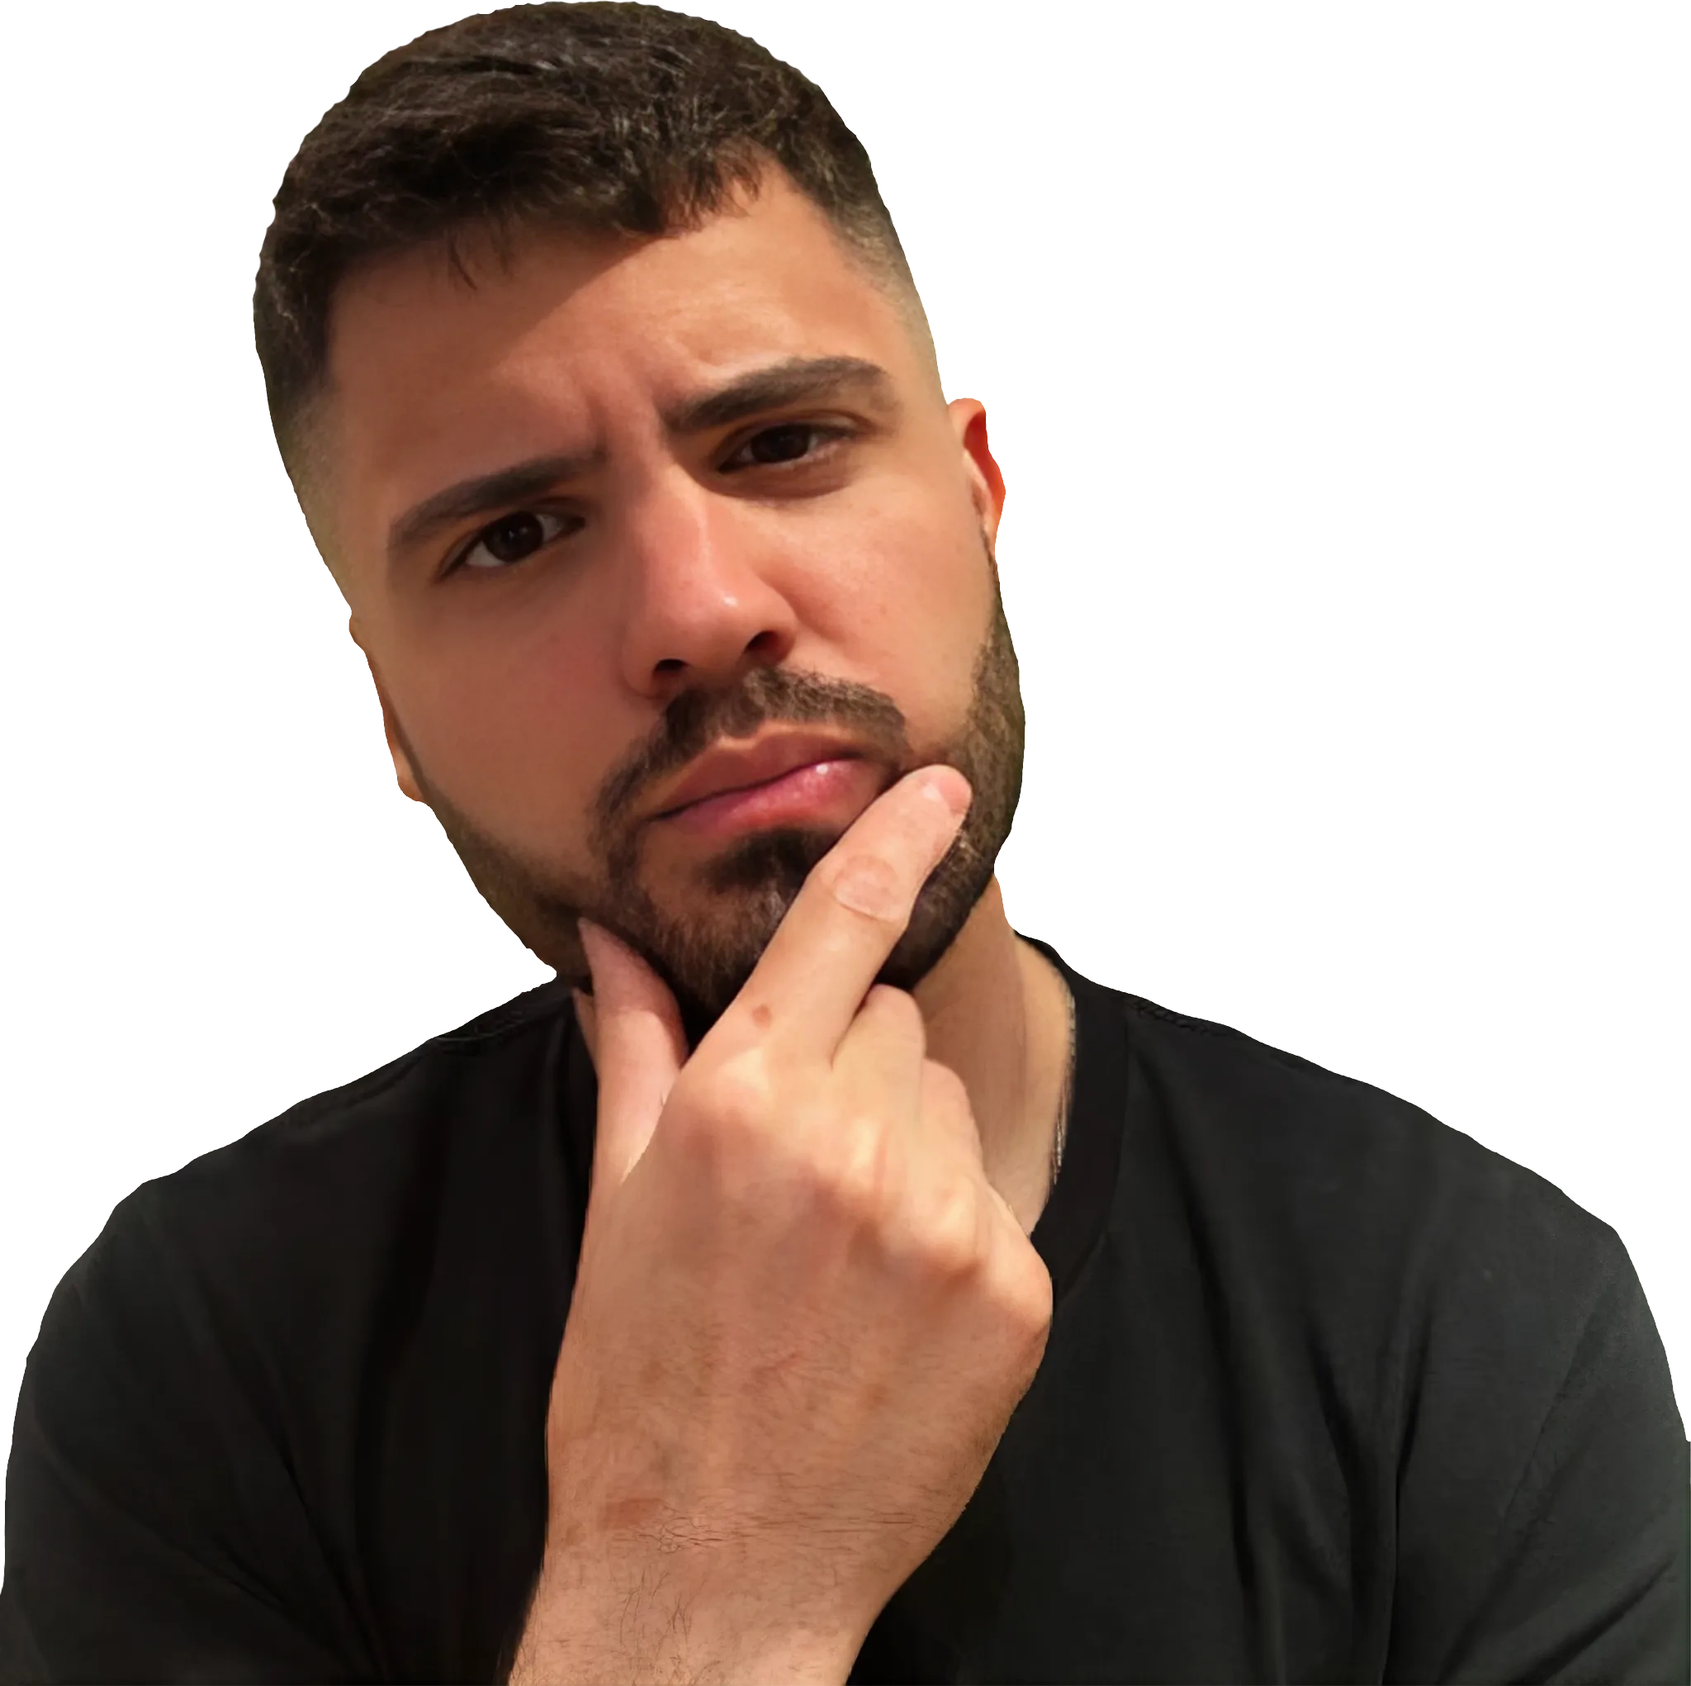
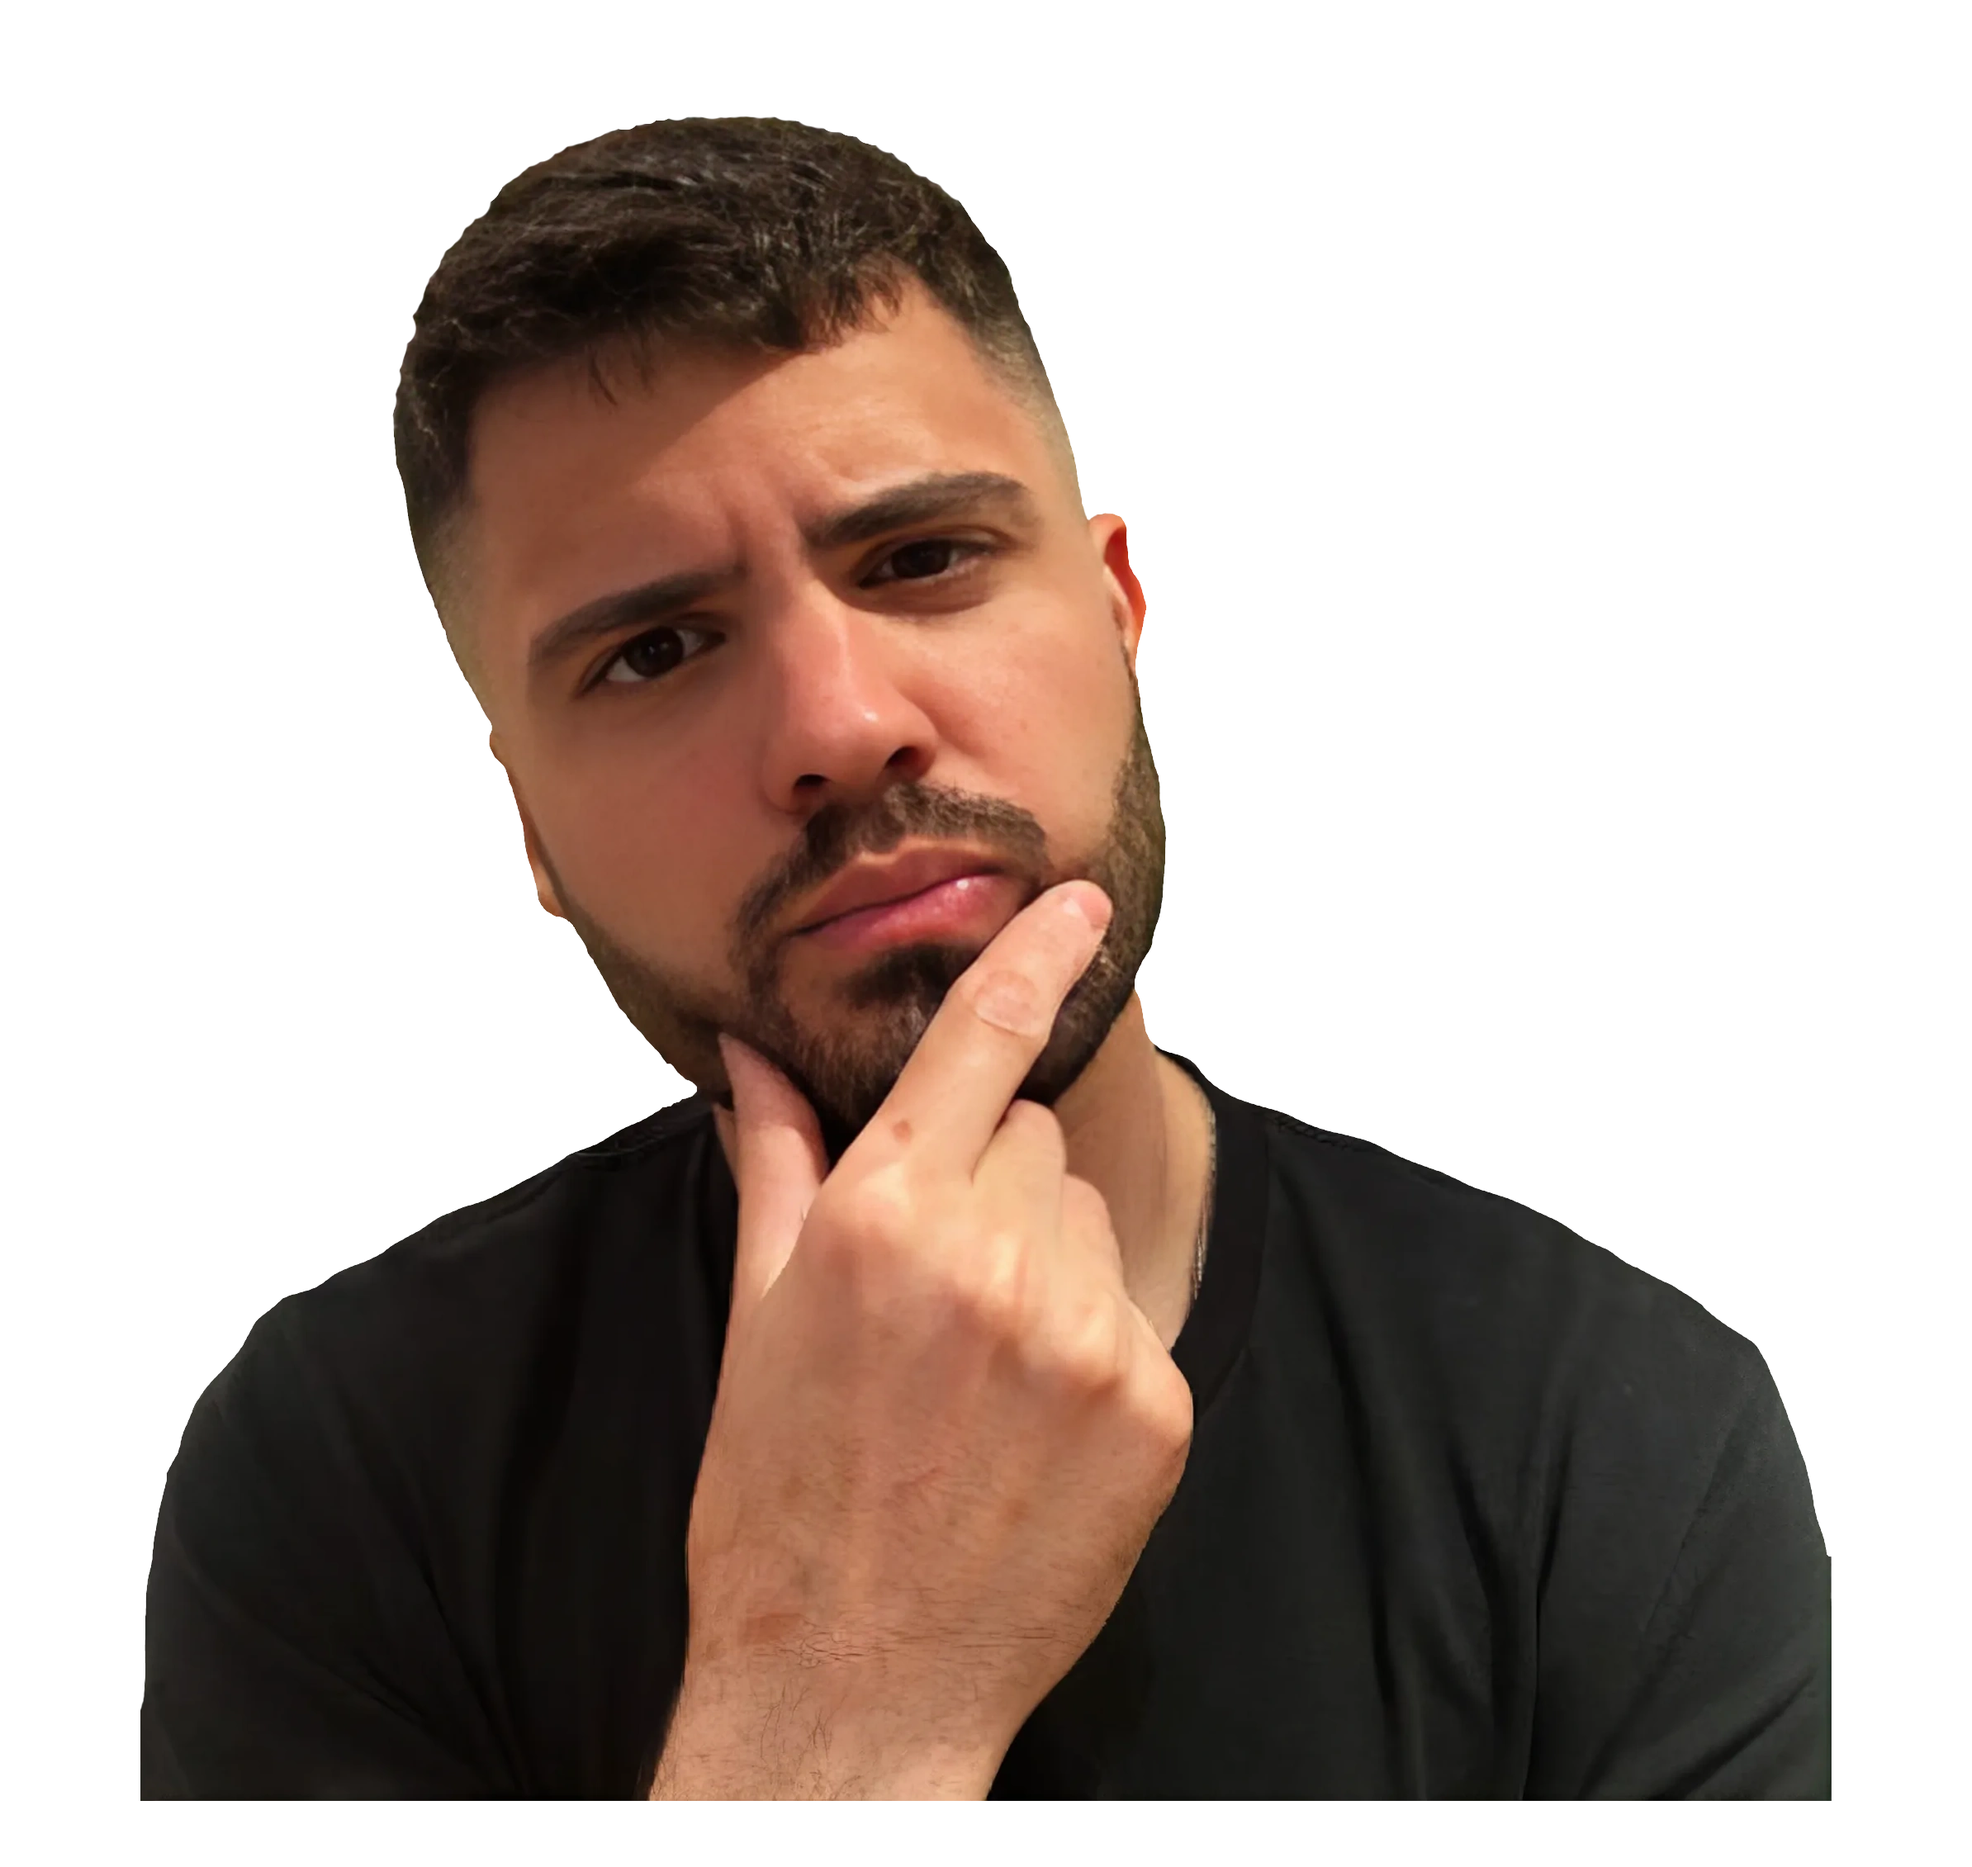
Refine team portrait framing and visual consistency

Changed region(s): [[0.0, 0.0, 1.0, 1.0], [0.6875, 0.7099, 0.8438, 0.8951], [0.6875, 0.8643, 0.7188, 0.8951]]

diff --git a/app/team/page.tsx b/app/team/page.tsx
@@ -11,7 +11,10 @@ type Founder = {
   fit: PortraitFit;
   imageWidth?: string;
   imageY?: string;
+  imageX?: string;
   objectPosition?: string;
+  edgeFade?: "left" | "right" | "both";
+  coverTint?: number;
 };
 
 type TeamMember = {
@@ -21,7 +24,10 @@ type TeamMember = {
   fit?: PortraitFit;
   imageWidth?: string;
   imageY?: string;
+  imageX?: string;
   objectPosition?: string;
+  edgeFade?: "left" | "right" | "both";
+  coverTint?: number;
 };
 
 const founders: Founder[] = [
@@ -30,7 +36,8 @@ const founders: Founder[] = [
     name: "Chris Panteli",
     imageSrc: "/team/processed/chris-panteli.webp",
     fit: "cutout",
-    imageWidth: "64%",
+    imageWidth: "46%",
+    imageX: "-2%",
     imageY: "0%",
   },
   {
@@ -38,20 +45,50 @@ const founders: Founder[] = [
     name: "Nick Biggs",
     imageSrc: "/team/processed/nick-biggs.webp",
     fit: "cutout",
-    imageWidth: "63%",
+    imageWidth: "44%",
+    imageX: "-4%",
     imageY: "0%",
+    edgeFade: "right",
   },
 ];
 
 const teamMembers: TeamMember[] = [
-  { id: "agustin", name: "Agustin", imageSrc: "/team/agustin.jpg", fit: "cover", objectPosition: "50% 22%" },
+  {
+    id: "agustin",
+    name: "Agustin",
+    imageSrc: "/team/agustin.jpg",
+    fit: "cover",
+    objectPosition: "50% 24%",
+    coverTint: 0.66,
+  },
   { id: "damjan", name: "Damjan", imageSrc: "/team/processed/damjan.webp", fit: "cutout", imageWidth: "86%" },
-  { id: "dani", name: "Dani", imageSrc: "/team/dani-b.png", fit: "cover", objectPosition: "50% 16%" },
+  {
+    id: "dani",
+    name: "Dani",
+    imageSrc: "/team/dani-b.png",
+    fit: "cover",
+    objectPosition: "50% 16%",
+    coverTint: 0.56,
+  },
   { id: "dario", name: "Dario", imageSrc: "/team/processed/dario.webp", fit: "cutout", imageWidth: "92%" },
-  { id: "mateos", name: "Mateos", imageSrc: "/team/mateos.jpg", fit: "cover", objectPosition: "50% 18%" },
+  {
+    id: "mateos",
+    name: "Mateos",
+    imageSrc: "/team/mateos.jpg",
+    fit: "cover",
+    objectPosition: "50% 18%",
+    coverTint: 0.72,
+  },
   { id: "naomi", name: "Naomi", imageSrc: "/team/processed/naomi.webp", fit: "cutout", imageWidth: "89%" },
   { id: "roland", name: "Roland", imageSrc: "/team/processed/roland.webp", fit: "cutout", imageWidth: "88%" },
-  { id: "sabina", name: "Sabina", imageSrc: "/team/processed/sabina.webp", fit: "cutout", imageWidth: "88%" },
+  {
+    id: "sabina",
+    name: "Sabina",
+    imageSrc: "/team/processed/sabina.webp",
+    fit: "cutout",
+    imageWidth: "85%",
+    edgeFade: "left",
+  },
   { id: "sandra", name: "Sandra", imageSrc: "/team/processed/sandra.webp", fit: "cutout", imageWidth: "88%" },
   { id: "selma", name: "Selma", imageSrc: "/team/processed/selma.webp", fit: "cutout", imageWidth: "88%" },
   { id: "sue", name: "Sue", imageSrc: "/team/processed/sue.webp", fit: "cutout", imageWidth: "88%" },
@@ -72,32 +109,54 @@ function initials(name: string): string {
 
 function PortraitStage({ person, founder = false }: { person: Founder | TeamMember; founder?: boolean }) {
   const fit = person.fit ?? "cutout";
+  const edgeMask =
+    person.edgeFade === "right"
+      ? "linear-gradient(to right, #000 0%, #000 86%, transparent 100%)"
+      : person.edgeFade === "left"
+        ? "linear-gradient(to right, transparent 0%, #000 14%, #000 100%)"
+        : person.edgeFade === "both"
+          ? "linear-gradient(to right, transparent 0%, #000 9%, #000 91%, transparent 100%)"
+          : undefined;
 
   return (
     <div className={`rounded-[1.25rem] p-[1px] ${founder ? "rounded-[1.4rem]" : ""} bg-[linear-gradient(150deg,rgba(194,183,255,0.94),rgba(121,219,255,0.9),rgba(210,196,255,0.92))]`}>
       <div
         className={`relative overflow-hidden rounded-[1.2rem] ${
-          founder ? "aspect-[5/4]" : "aspect-[4/5]"
-        } bg-[radial-gradient(circle_at_20%_14%,rgba(166,145,255,0.66),transparent_34%),radial-gradient(circle_at_82%_10%,rgba(128,219,255,0.46),transparent_34%),linear-gradient(160deg,#6c62e9_0%,#5964d2_52%,#4c69be_100%)]`}
+          founder ? "aspect-[16/11]" : "aspect-[4/5]"
+        } bg-[radial-gradient(circle_at_20%_14%,rgba(171,150,255,0.7),transparent_34%),radial-gradient(circle_at_82%_10%,rgba(136,220,255,0.52),transparent_34%),linear-gradient(160deg,#7068eb_0%,#5c67d8_54%,#4f6cc4_100%)]`}
       >
         {person.imageSrc ? (
           fit === "cover" ? (
-            <img
-              src={person.imageSrc}
-              alt={`${person.name} portrait`}
-              className="h-full w-full object-cover"
-              style={{ objectPosition: person.objectPosition ?? "50% 20%" }}
-              loading="lazy"
-            />
+            <>
+              <img
+                src={person.imageSrc}
+                alt={`${person.name} portrait`}
+                className="h-full w-full object-cover [filter:brightness(1.06)_contrast(1.04)_saturate(0.96)]"
+                style={{ objectPosition: person.objectPosition ?? "50% 20%" }}
+                loading="lazy"
+              />
+              <div
+                className="pointer-events-none absolute inset-0 bg-[linear-gradient(160deg,#6f66e6_0%,#5b6bdb_56%,#4c74cc_100%)] mix-blend-multiply"
+                style={{ opacity: person.coverTint ?? 0.5 }}
+              />
+              <div
+                className="pointer-events-none absolute inset-0 bg-[radial-gradient(circle_at_78%_8%,rgba(153,234,255,0.74),transparent_40%)]"
+                style={{ opacity: 0.42 }}
+              />
+            </>
           ) : (
             <img
               src={person.imageSrc}
               alt={`${person.name} portrait`}
-              className="absolute bottom-0 left-1/2 h-auto max-h-[97%] -translate-x-1/2 object-contain drop-shadow-[0_18px_28px_rgba(22,22,78,0.36)]"
+              className={`absolute bottom-0 left-1/2 h-auto object-contain drop-shadow-[0_18px_28px_rgba(22,22,78,0.36)] ${
+                founder ? "max-h-[84%]" : "max-h-[95%]"
+              }`}
               style={{
-                width: person.imageWidth ?? (founder ? "64%" : "88%"),
-                transform: `translateX(-50%) translateY(${person.imageY ?? "0%"})`,
+                width: person.imageWidth ?? (founder ? "48%" : "88%"),
+                transform: `translateX(calc(-50% + ${person.imageX ?? "0%"})) translateY(${person.imageY ?? "0%"})`,
                 filter: "brightness(1.08) contrast(1.04) saturate(1.06)",
+                maskImage: edgeMask,
+                WebkitMaskImage: edgeMask,
               }}
               loading="lazy"
             />
@@ -123,7 +182,7 @@ export const metadata: Metadata = {
 export default function TeamPage() {
   return (
     <>
-      <main className="bg-[radial-gradient(circle_at_16%_-4%,rgba(196,175,255,0.44),transparent_34%),radial-gradient(circle_at_88%_4%,rgba(142,224,255,0.38),transparent_34%),linear-gradient(180deg,#384a87_0%,#2f4076_44%,#2a396a_100%)] pb-10 text-white">
+      <main className="bg-[radial-gradient(circle_at_16%_-4%,rgba(200,180,255,0.45),transparent_34%),radial-gradient(circle_at_88%_4%,rgba(144,224,255,0.4),transparent_34%),linear-gradient(180deg,#41579b_0%,#344a86_44%,#2a3e72_100%)] pb-10 text-white">
         <section className="relative overflow-hidden">
           <SiteHeader />
           <div className="pointer-events-none absolute inset-0 bg-[linear-gradient(90deg,rgba(255,255,255,0.03)_1px,transparent_1px),linear-gradient(180deg,rgba(255,255,255,0.03)_1px,transparent_1px)] bg-[size:44px_44px]" />
@@ -148,7 +207,7 @@ export default function TeamPage() {
               {founders.map((founder) => (
                 <article
                   key={founder.id}
-                  className="relative overflow-hidden rounded-[2rem] border border-white/24 bg-[linear-gradient(165deg,rgba(79,93,170,0.62),rgba(64,79,148,0.72))] p-4 shadow-[0_24px_58px_rgba(22,32,84,0.24)]"
+                  className="relative overflow-hidden rounded-[1.9rem] border border-white/28 bg-[linear-gradient(165deg,rgba(88,102,184,0.58),rgba(70,86,160,0.72))] p-4 shadow-[0_24px_58px_rgba(20,31,81,0.25)] md:p-5"
                 >
                   <div className="pointer-events-none absolute -right-10 -top-10 h-32 w-32 rounded-full bg-[#7f6eff]/18 blur-3xl" />
                   <div className="pointer-events-none absolute -left-8 bottom-0 h-28 w-28 rounded-full bg-[#69cfff]/16 blur-3xl" />
@@ -170,7 +229,7 @@ export default function TeamPage() {
               {teamMembers.map((member) => (
                 <article
                   key={member.id}
-                  className="overflow-hidden rounded-[1.4rem] border border-white/20 bg-[linear-gradient(165deg,rgba(66,80,151,0.64),rgba(52,66,129,0.74))] p-3 shadow-[0_14px_34px_rgba(18,27,70,0.24)] transition-transform duration-200 hover:-translate-y-0.5"
+                  className="overflow-hidden rounded-[1.4rem] border border-white/22 bg-[linear-gradient(165deg,rgba(76,90,165,0.62),rgba(58,73,141,0.74))] p-3 shadow-[0_14px_34px_rgba(18,27,70,0.24)] transition-transform duration-200 hover:-translate-y-0.5"
                 >
                   <PortraitStage person={member} />
                   <p className="mt-3 px-1 text-xl font-display font-bold tracking-[-0.015em] text-white">{member.name}</p>
